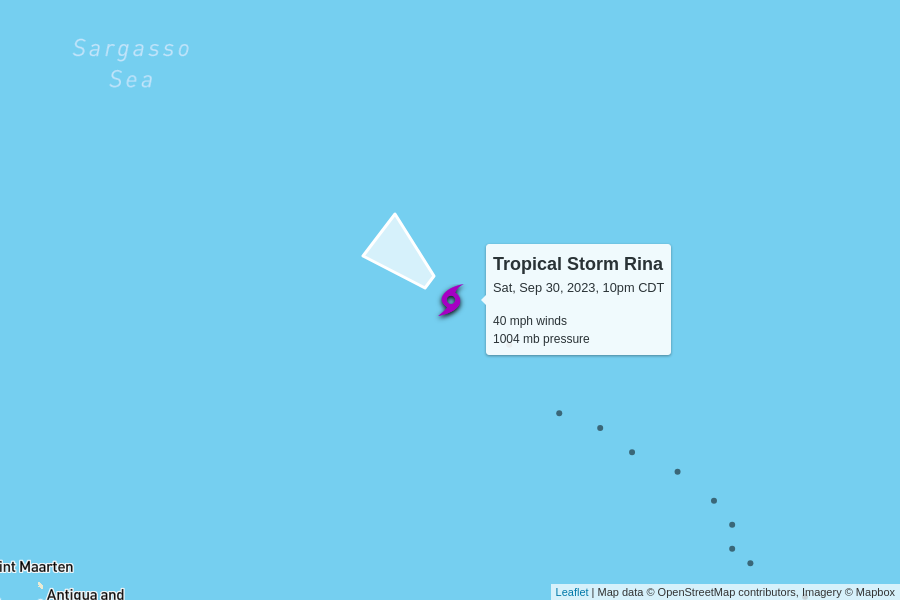
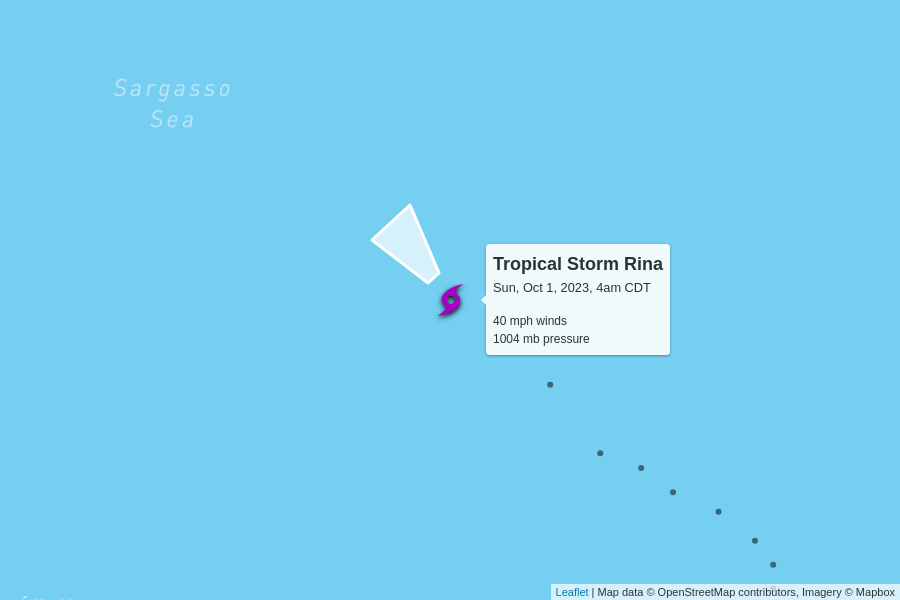
automatic update

diff --git a/docs/index.html b/docs/index.html
@@ -103,8 +103,52 @@
       <tr>
         <td colspan="6" class="storm category-0" >
           <h2>
+            Tropical Storm Rina
+            <p class="updated">last updated <span data-time>2023-10-01T09:00:00.000Z</span></p>
+          </h2>
+        </td>
+      </tr>
+      
+      <tr>
+        <th class="spacer"></th>
+        <th>wind speed</th>
+        <th>central pressure</th>
+        <th>movement</th>
+        <th>data (CSV)</th>
+        <th>National Hurricane Center</th>
+      </tr>
+      <tr>
+        <td class="spacer"></td>
+        <td>40 mph<br>0 mph since last update</td>
+        <td>1004 mb<br>0 mb since last update</td>
+        <td>
+          14 mph to the northwest
+          <br/>
+          <span style="display: inline-block; font-size: 1.5em; transform: rotate(320deg);">↑</span>
+        </td>
+        <td><a href="https://raw.githubusercontent.com/mgwalker/atlantic-hurricanes/main/data/csv/AL182023.csv">AL182023.csv</a></td>
+        <td><a href="https://www.nhc.noaa.gov/archive/2023/RINA.shtml?">NHC advisories</a></td>
+      </tr>
+      <tr id="storm_AL182023" >
+        <td class="spacer">
+        <td colspan="5">
+          <figure>
+            <img src="AL182023.png">
+            <figcaption>
+              Map data &copy; <a href="https://www.openstreetmap.org/copyright">OpenStreetMap</a> contributors,
+              Imagery &copy; <a href="https://www.mapbox.com/">Mapbox</a> |
+              <a href="https://www.mapbox.com/map-feedback/" target="_blank">Improve this map</a>
+            </figcaption>
+          </figure>
+        </td>
+      </tr>
+      
+
+      <tr>
+        <td colspan="6" class="storm category-0" >
+          <h2>
             Tropical Storm Philippe
-            <p class="updated">last updated <span data-time>2023-10-01T03:00:00.000Z</span></p>
+            <p class="updated">last updated <span data-time>2023-10-01T09:00:00.000Z</span></p>
           </h2>
         </td>
       </tr>
@@ -122,9 +166,9 @@
         <td>50 mph<br>0 mph since last update</td>
         <td>999 mb<br>0 mb since last update</td>
         <td>
-          5 mph to the southwest
+          7 mph to the west
           <br/>
-          <span style="display: inline-block; font-size: 1.5em; transform: rotate(235deg);">↑</span>
+          <span style="display: inline-block; font-size: 1.5em; transform: rotate(280deg);">↑</span>
         </td>
         <td><a href="https://raw.githubusercontent.com/mgwalker/atlantic-hurricanes/main/data/csv/AL172023.csv">AL172023.csv</a></td>
         <td><a href="https://www.nhc.noaa.gov/archive/2023/PHILIPPE.shtml?">NHC advisories</a></td>
@@ -134,50 +178,6 @@
         <td colspan="5">
           <figure>
             <img src="AL172023.png">
-            <figcaption>
-              Map data &copy; <a href="https://www.openstreetmap.org/copyright">OpenStreetMap</a> contributors,
-              Imagery &copy; <a href="https://www.mapbox.com/">Mapbox</a> |
-              <a href="https://www.mapbox.com/map-feedback/" target="_blank">Improve this map</a>
-            </figcaption>
-          </figure>
-        </td>
-      </tr>
-      
-
-      <tr>
-        <td colspan="6" class="storm category-0" >
-          <h2>
-            Tropical Storm Rina
-            <p class="updated">last updated <span data-time>2023-10-01T03:00:00.000Z</span></p>
-          </h2>
-        </td>
-      </tr>
-      
-      <tr>
-        <th class="spacer"></th>
-        <th>wind speed</th>
-        <th>central pressure</th>
-        <th>movement</th>
-        <th>data (CSV)</th>
-        <th>National Hurricane Center</th>
-      </tr>
-      <tr>
-        <td class="spacer"></td>
-        <td>40 mph<br>-5 mph since last update</td>
-        <td>1004 mb<br>+2 mb since last update</td>
-        <td>
-          14 mph to the northwest
-          <br/>
-          <span style="display: inline-block; font-size: 1.5em; transform: rotate(310deg);">↑</span>
-        </td>
-        <td><a href="https://raw.githubusercontent.com/mgwalker/atlantic-hurricanes/main/data/csv/AL182023.csv">AL182023.csv</a></td>
-        <td><a href="https://www.nhc.noaa.gov/archive/2023/RINA.shtml?">NHC advisories</a></td>
-      </tr>
-      <tr id="storm_AL182023" >
-        <td class="spacer">
-        <td colspan="5">
-          <figure>
-            <img src="AL182023.png">
             <figcaption>
               Map data &copy; <a href="https://www.openstreetmap.org/copyright">OpenStreetMap</a> contributors,
               Imagery &copy; <a href="https://www.mapbox.com/">Mapbox</a> |
